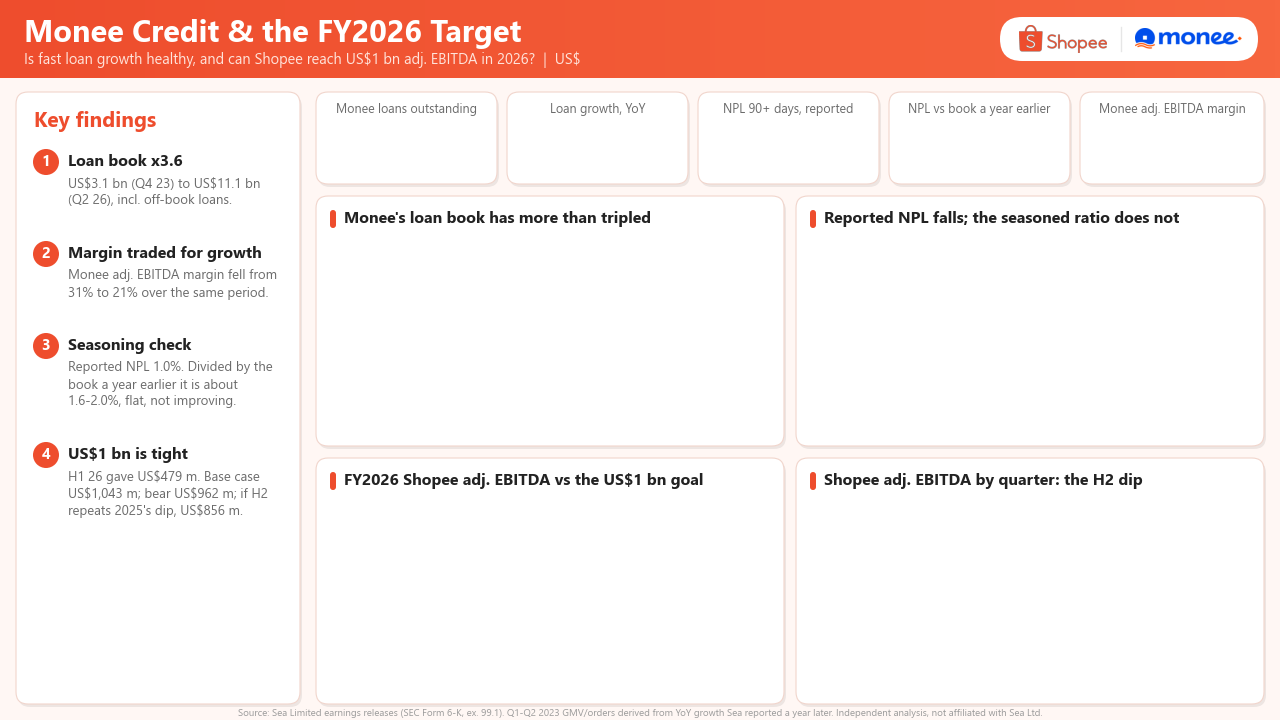
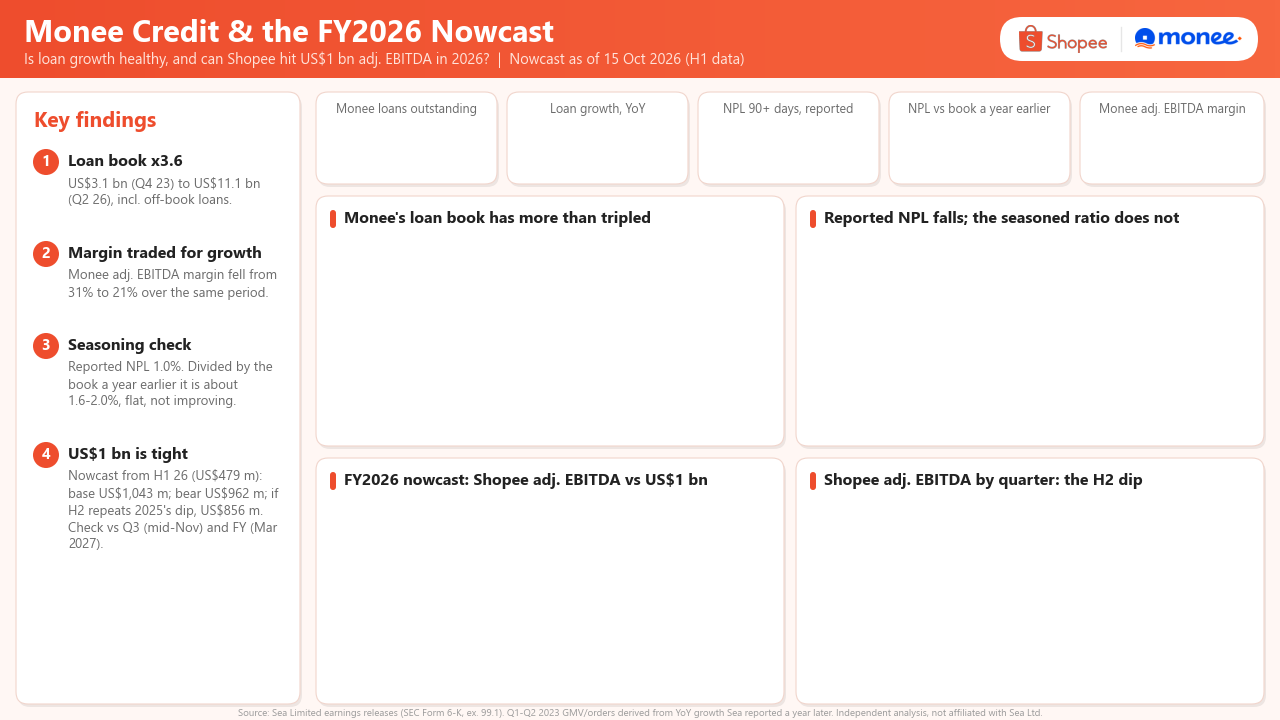
Frame the FY2026 scenarios as a nowcast made on 15 Oct 2026 from H1 data

Changed region(s): [[0.0312, 0.0306, 0.5938, 0.0917], [0.0625, 0.6417, 0.2188, 0.7639], [0.3125, 0.6417, 0.5625, 0.6722]]

diff --git a/powerbi/make_pages.py b/powerbi/make_pages.py
@@ -45,10 +45,10 @@ TITLES = {
     2: {"k1": "Monee loans outstanding", "k2": "Loan growth, YoY", "k3": "NPL 90+ days, reported",
         "k4": "NPL vs book a year earlier", "k5": "Monee adj. EBITDA margin",
         "c1": "Monee's loan book has more than tripled", "c2": "Reported NPL falls; the seasoned ratio does not",
-        "c3": "FY2026 Shopee adj. EBITDA vs the US$1 bn goal", "c4": "Shopee adj. EBITDA by quarter: the H2 dip"},
+        "c3": "FY2026 nowcast: Shopee adj. EBITDA vs US$1 bn", "c4": "Shopee adj. EBITDA by quarter: the H2 dip"},
 }
 HEAD = {1: ("Shopee Unit Economics", "Is Shopee's growth becoming more profitable?  |  Sea Ltd 6-K filings, Q1 2019 - Q2 2026, US$"),
-        2: ("Monee Credit & the FY2026 Target", "Is fast loan growth healthy, and can Shopee reach US$1 bn adj. EBITDA in 2026?  |  US$")}
+        2: ("Monee Credit & the FY2026 Nowcast", "Is loan growth healthy, and can Shopee hit US$1 bn adj. EBITDA in 2026?  |  Nowcast as of 15 Oct 2026 (H1 data)")}
 SIDE = {
     1: ("Key findings", [
         ("Take rate doubled", "Fees + ads rose from 5.2% of GMV (Q3 22) to 11.2% (Q2 26). Logistics fell to 1.8%."),
@@ -60,7 +60,7 @@ SIDE = {
         ("Loan book x3.6", "US$3.1 bn (Q4 23) to US$11.1 bn (Q2 26), incl. off-book loans."),
         ("Margin traded for growth", "Monee adj. EBITDA margin fell from 31% to 21% over the same period."),
         ("Seasoning check", "Reported NPL 1.0%. Divided by the book a year earlier it is about 1.6-2.0%, flat, not improving."),
-        ("US$1 bn is tight", "H1 26 gave US$479 m. Base case US$1,043 m; bear US$962 m; if H2 repeats 2025's dip, US$856 m."),
+        ("US$1 bn is tight", "Nowcast from H1 26 (US$479 m): base US$1,043 m; bear US$962 m; if H2 repeats 2025's dip, US$856 m. Check vs Q3 (mid-Nov) and FY (Mar 2027)."),
     ]),
 }
 FOOT = "Source: Sea Limited earnings releases (SEC Form 6-K, ex. 99.1). Q1-Q2 2023 GMV/orders derived from YoY growth Sea reported a year later. Independent analysis, not affiliated with Sea Ltd."

diff --git a/build_excel.py b/build_excel.py
@@ -45,7 +45,7 @@ ws.column_dimensions["A"].width = 120
 lines = [
     ("Shopee & Monee unit economics, Q1 2019 - Q2 2026", TITLE),
     ("Source: Sea Limited (NYSE: SE) quarterly earnings releases (Form 6-K, exhibit 99.1) on SEC EDGAR. Each Data row links to its filing.", None),
-    ("Question: is Shopee's growth becoming more profitable, is Monee's fast loan growth staying healthy, and is the 'US$1 billion Shopee adjusted EBITDA in FY2026' expectation realistic?", None),
+    ("Question: is Shopee's growth becoming more profitable, is Monee's fast loan growth staying healthy, and, before H2 is reported, how likely is the 'US$1 billion Shopee adjusted EBITDA in FY2026' expectation (nowcast as of 15 Oct 2026)?", None),
     ("", None),
     ("How to read this file", Font(bold=True)),
     ("- Yellow cells on Target_2026 are assumptions you can change. Everything else is a formula or a reported number.", None),
@@ -192,8 +192,10 @@ for col in "BCDE":
     ws.column_dimensions[col].width = 16
 row_of = {p: r for r, p in enumerate(df["period"], FIRST)}
 q = lambda key, p: d(key, row_of[p])
-ws["A1"], ws["A1"].font = "Can Shopee reach US$1 billion adjusted EBITDA in FY2026?", TITLE
+ws["A1"], ws["A1"].font = "Nowcast: can Shopee reach US$1 billion adjusted EBITDA in FY2026?", TITLE
 ws["A2"] = "Sea's CEO said in the Q2 2026 release that he is 'optimistic' Shopee will reach US$1 billion adjusted EBITDA for the full year."
+ws["A3"] = "Pre-results estimate (nowcast) made on 15 Oct 2026 from H1 2026 data, before Sea reports Q3 2026 (mid-November 2026) and FY2026 (around March 2027)."
+ws["A3"].font = Font(italic=True, color="666666")
 ws["A4"], ws["A4"].font = "Actuals (from Data)", Font(bold=True)
 facts = [("Q1 2026 adj. EBITDA (US$ m)", f"={q('shopee_adj_ebitda_usd_m', '2026Q1')}", "#,##0.0"),
          ("Q2 2026 adj. EBITDA (US$ m)", f"={q('shopee_adj_ebitda_usd_m', '2026Q2')}", "#,##0.0"),

diff --git a/powerbi/build_report.py b/powerbi/build_report.py
@@ -142,7 +142,7 @@ PAGES = {
                           for n, c in (("More orders", OR_L), ("Higher take rate", OR), ("Order value", GREY))]},
                      sort_entity="Drivers")),
     ]),
-    2: ("Monee & FY2026 target", [
+    2: ("Monee & FY2026 nowcast", [
         ("k1", kpi(Q, "Q2 26, incl. off-book loans")), ("k2", kpi(Q, "vs Q2 25, same loan measure")),
         ("k3", kpi(Q, "past due 90+ days, Q2 26")), ("k4", kpi(Q, "NPL / loan book a year earlier", accent=True)),
         ("k5", kpi(Q, "Q2 26, was 31.4% in Q4 23")),

diff --git a/Memo.md b/Memo.md
@@ -10,7 +10,7 @@
 
 **3. The extra revenue is not reaching the bottom line.** Shopee's adjusted EBITDA was US$0.06 per order in Q2 2026, or 0.67% of GMV. That is below its first profitable stretch (1.2% of GMV in Q1 2023) and has not risen while the take rate kept climbing. The gains are being reinvested: shipping subsidies are netted against logistics revenue, and Shopee's sales and marketing expenses rose 56.6% year-on-year in Q2 2026, faster than marketplace revenue (48.9%). Shopee also fell back into losses from Q3 2023 to Q2 2024 (−US$346 million in Q3 2023) when Sea chose to reinvest, so its profit can be switched off quickly.
 
-**4. US$1 billion in FY2026 is possible, but it needs an H2 unlike 2025's.** H1 2026 adjusted EBITDA was US$478.6 million, so H2 must deliver US$521.4 million. At H1's growth (29.5%) and margin (0.63% of GMV), Shopee reaches about US$1,043 million. If H2 margin falls back to H2 2025's 0.56% and growth slows by 5 points, it reaches about US$962 million. The break-even H2 margin is about 0.58% of GMV, only slightly above H2 2025's level. In 2025, H2 EBITDA was 79% of H1. If that seasonal pattern repeats, FY2026 lands near US$856 million.
+**4. Nowcast: US$1 billion in FY2026 is possible, but it needs an H2 unlike 2025's.** *Pre-results estimate (nowcast) made on 15 Oct 2026 from H1 2026 data, before Sea reports Q3 2026 (mid-November 2026) and FY2026 (around March 2027).* H1 2026 adjusted EBITDA was US$478.6 million, so H2 must deliver US$521.4 million. At H1's growth (29.5%) and margin (0.63% of GMV), Shopee reaches about US$1,043 million. If H2 margin falls back to H2 2025's 0.56% and growth slows by 5 points, it reaches about US$962 million. The break-even H2 margin is about 0.58% of GMV, only slightly above H2 2025's level. In 2025, H2 EBITDA was 79% of H1. If that seasonal pattern repeats, FY2026 lands near US$856 million.
 
 **5. Monee is growing fast, and its headline credit ratio flatters it.** Loans (incl. off-book) grew from US$3.1 billion (Q4 2023) to US$11.1 billion (Q2 2026). Over the same period the adjusted EBITDA margin fell from 31% to 21%. The reported 90-day NPL ratio improved to 1.0%. But when today's bad loans are divided by the smaller loan book of a year earlier, the ratio sits around 1.6–2.0% and has not improved. Fast growth dilutes the ratio, which is why it looks better.
 
@@ -25,4 +25,4 @@
 - Sea prints most figures rounded (GMV to US$0.1 billion), so ratios carry about ±1% relative error. Adjusted EBITDA comes from exact tables.
 - Sea did not report GMV or orders for Q1–Q2 2023. These are derived from growth rates reported a year later and match the FY2023 totals within 0.7%.
 - Monee changed its loan measure twice (2023Q3, 2023Q4). Its pre-2023Q3 NPL figures are bounds, and the Q4 2022 drop came mainly from a shorter write-off period.
-- There is no country split, so this is Shopee overall, not Shopee Indonesia. The scenarios are simple driver models, not a forecast of Sea's guidance.
+- There is no country split, so this is Shopee overall, not Shopee Indonesia. The FY2026 scenarios are a simple driver-based nowcast of results Sea has not yet reported, not Sea's guidance. They will be checked against the Q3 2026 and FY2026 releases.

diff --git a/README.md b/README.md
@@ -3,12 +3,12 @@
 This project asks three questions using Sea Limited's own quarterly earnings releases:
 - Is Shopee's growth becoming more profitable?
 - Is Monee's fast loan growth staying healthy?
-- Is a US$1 billion Shopee adjusted EBITDA in FY2026 realistic?
+- Before Sea reports the second half, how likely is a US$1 billion Shopee adjusted EBITDA in FY2026? This is a nowcast made on 15 Oct 2026 from H1 data. It will be checked against Q3 2026 (mid-November 2026) and FY2026 (around March 2027).
 
 **Findings:** see [Memo.md](Memo.md). **Model:** `Shopee_Monee_Unit_Economics.xlsx`. **Dashboard:** Power BI project in `powerbi/` (open `shopee_monee_unit_economics.pbip`). Every derived number in the model is a live formula, and every data row links to the SEC filing it came from.
 
 ![Shopee page](images/dashboard_page1.png)
-![Monee and FY2026 target page](images/dashboard_page2.png)
+![Monee and FY2026 nowcast page](images/dashboard_page2.png)
 
 ## Pipeline
 
